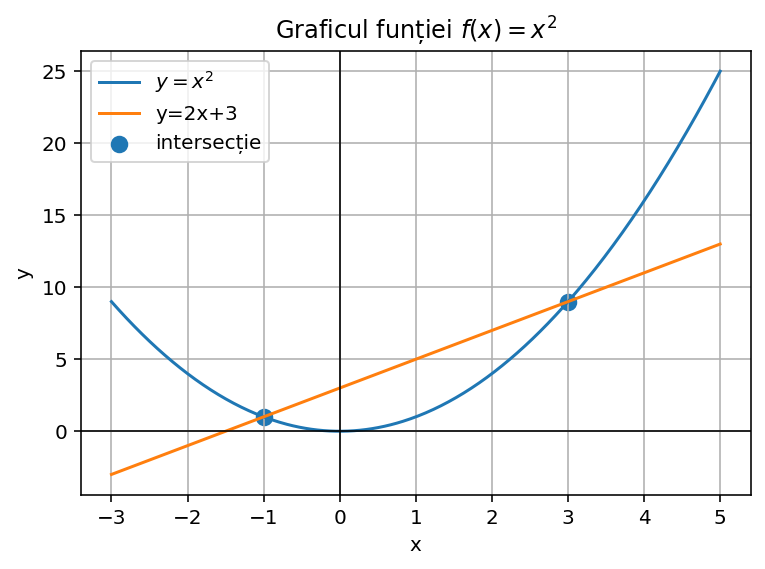
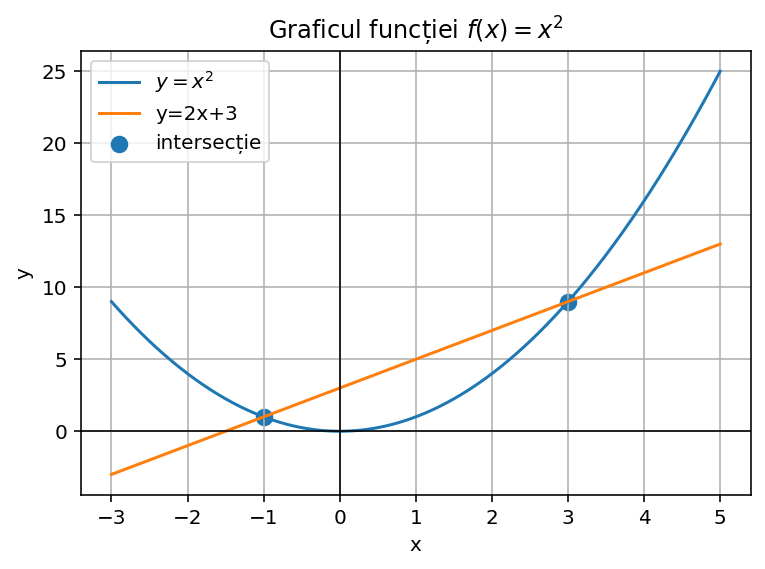
fixed typos

Changed region(s): [[0.3307, 0.0299, 0.7516, 0.0896]]

diff --git a/python/curs/curs7_pyplot_lin_suprafata.py b/python/curs/curs7_pyplot_lin_suprafata.py
@@ -12,7 +12,7 @@ y_int = x_int**2
 plt.plot(x, y, label="$y=x^2$")
 plt.plot(x, 2*x+3, label="y=2x+3")
 plt.scatter(x_int,y_int, s = 60, label="intersecție")
-plt.title("Graficul funției $f(x)=x^2$")
+plt.title("Graficul funcției $f(x)=x^2$")
 plt.xlabel("x")
 plt.ylabel("y")
 plt.grid(True)
@@ -29,7 +29,7 @@ rad = np.linspace(-2*np.pi, 2*np.pi, 100)
 sinus = np.sin(rad)
 cosin = np.cos(rad)
 
-plt.title("Graficele funțiilor sin(x) și cos(x)")
+plt.title("Graficele funcțiilor sin(x) și cos(x)")
 plt.xlabel("x")
 plt.ylabel("y")
 plt.grid(True)
